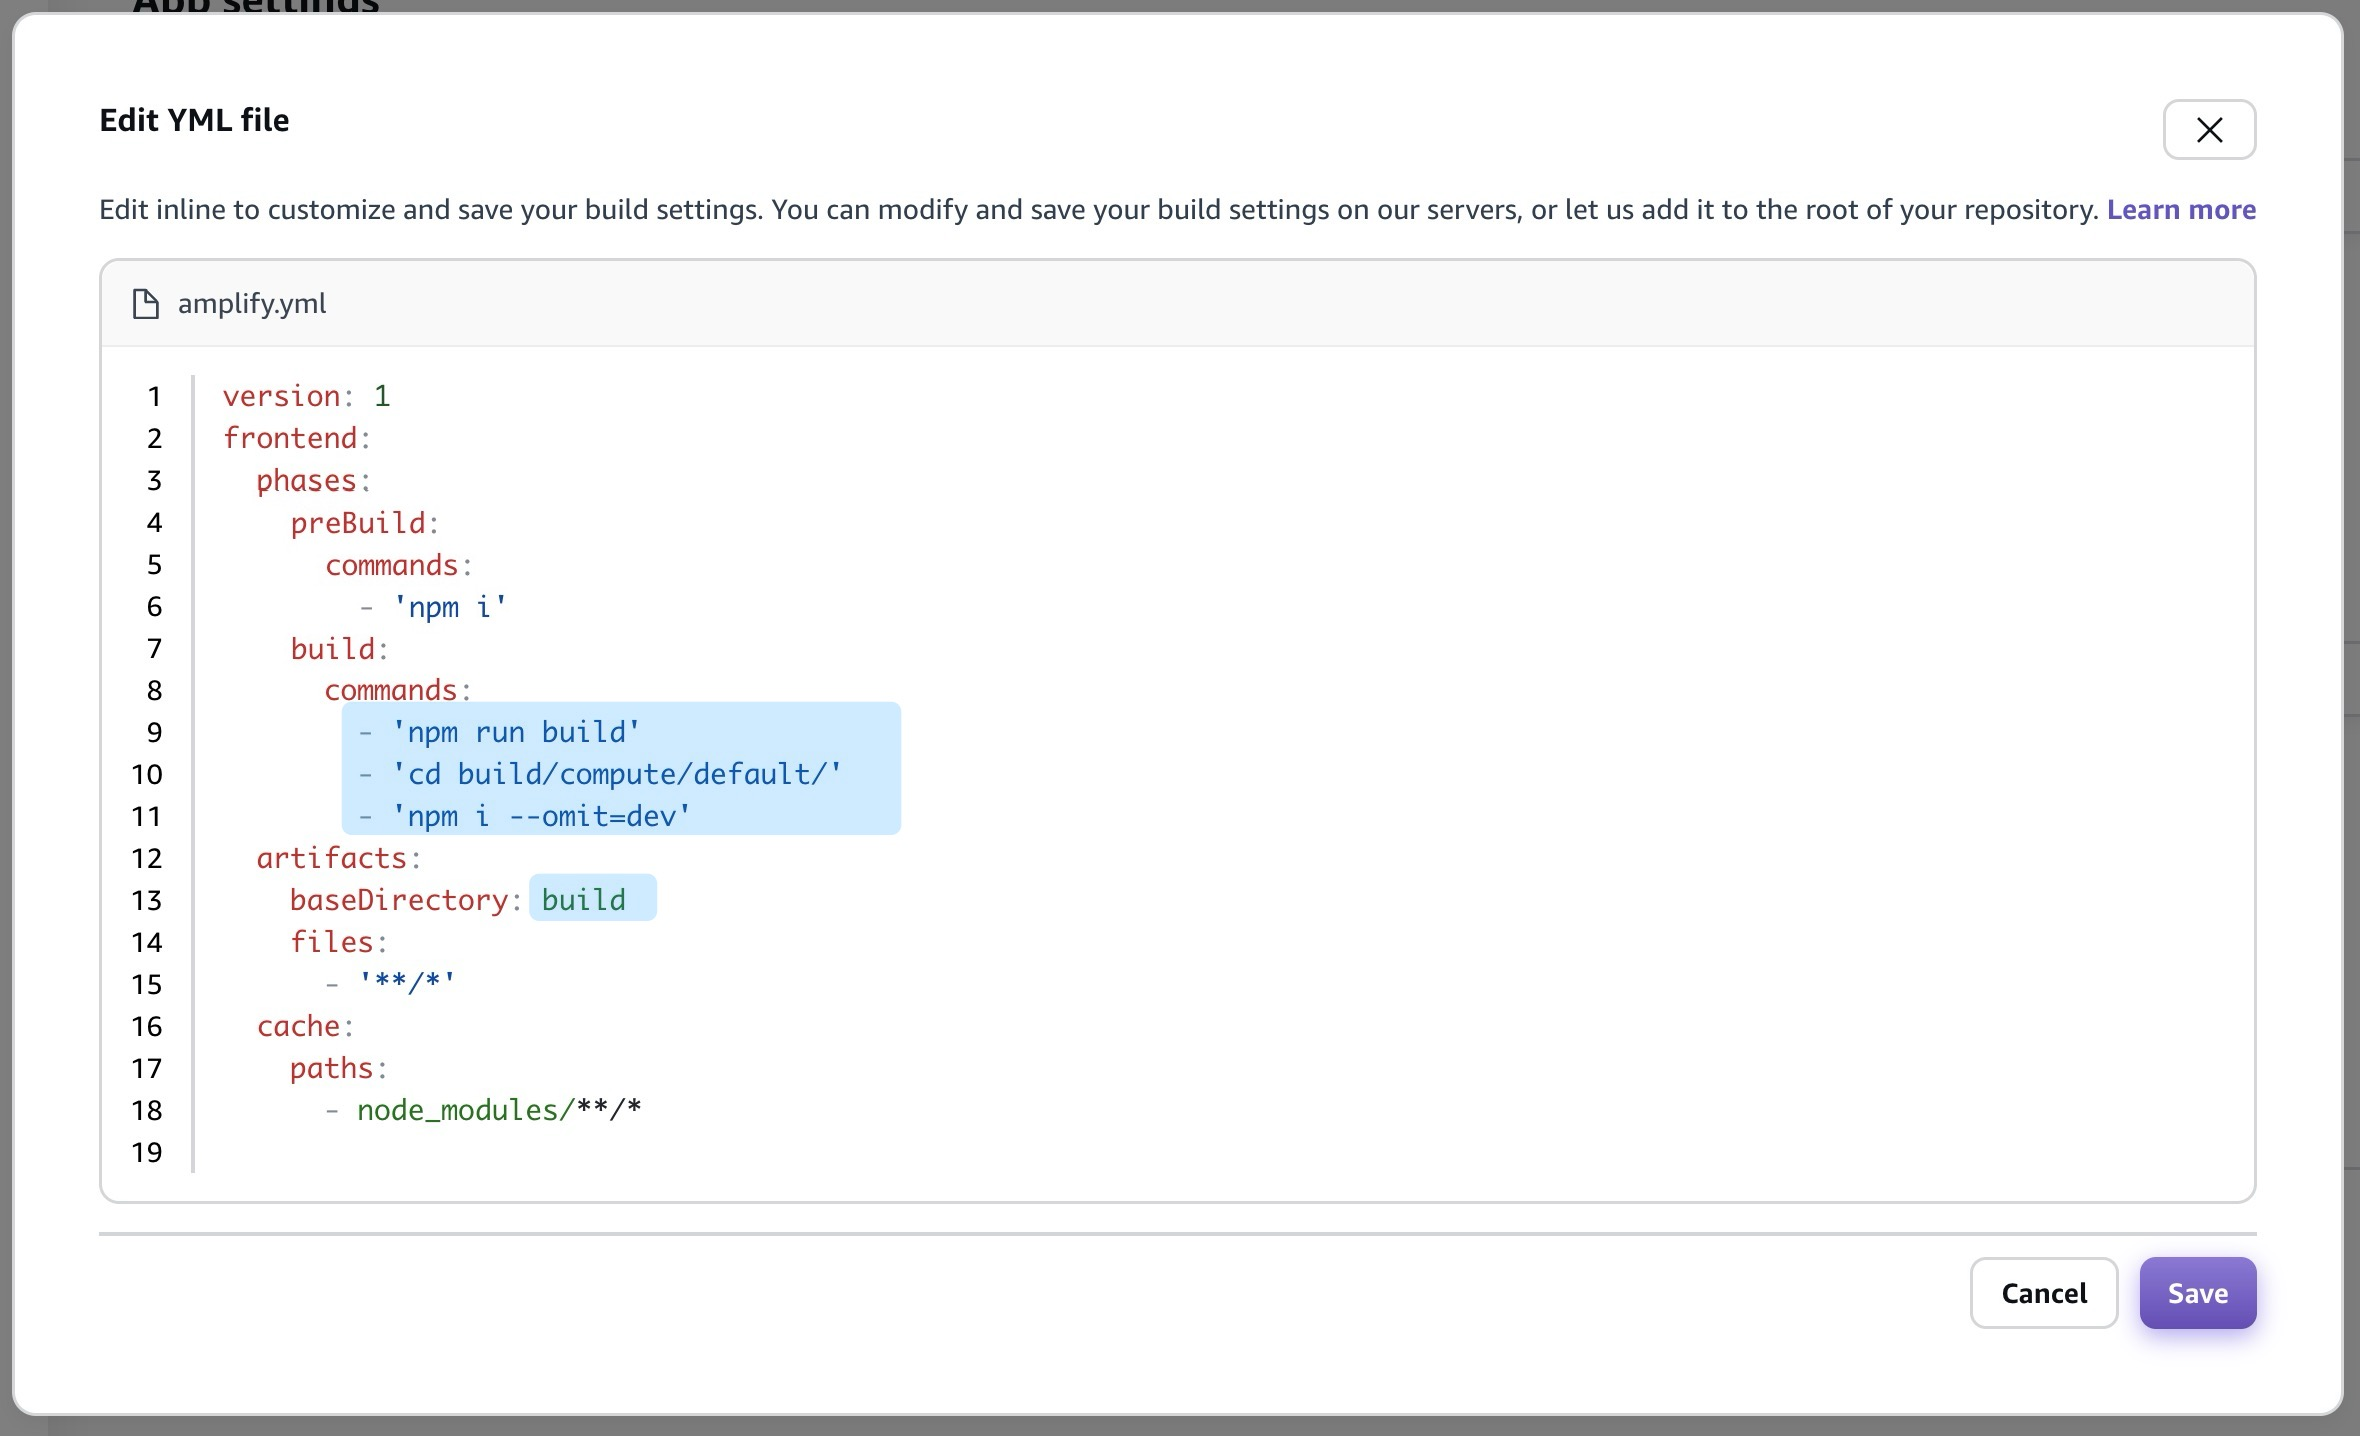
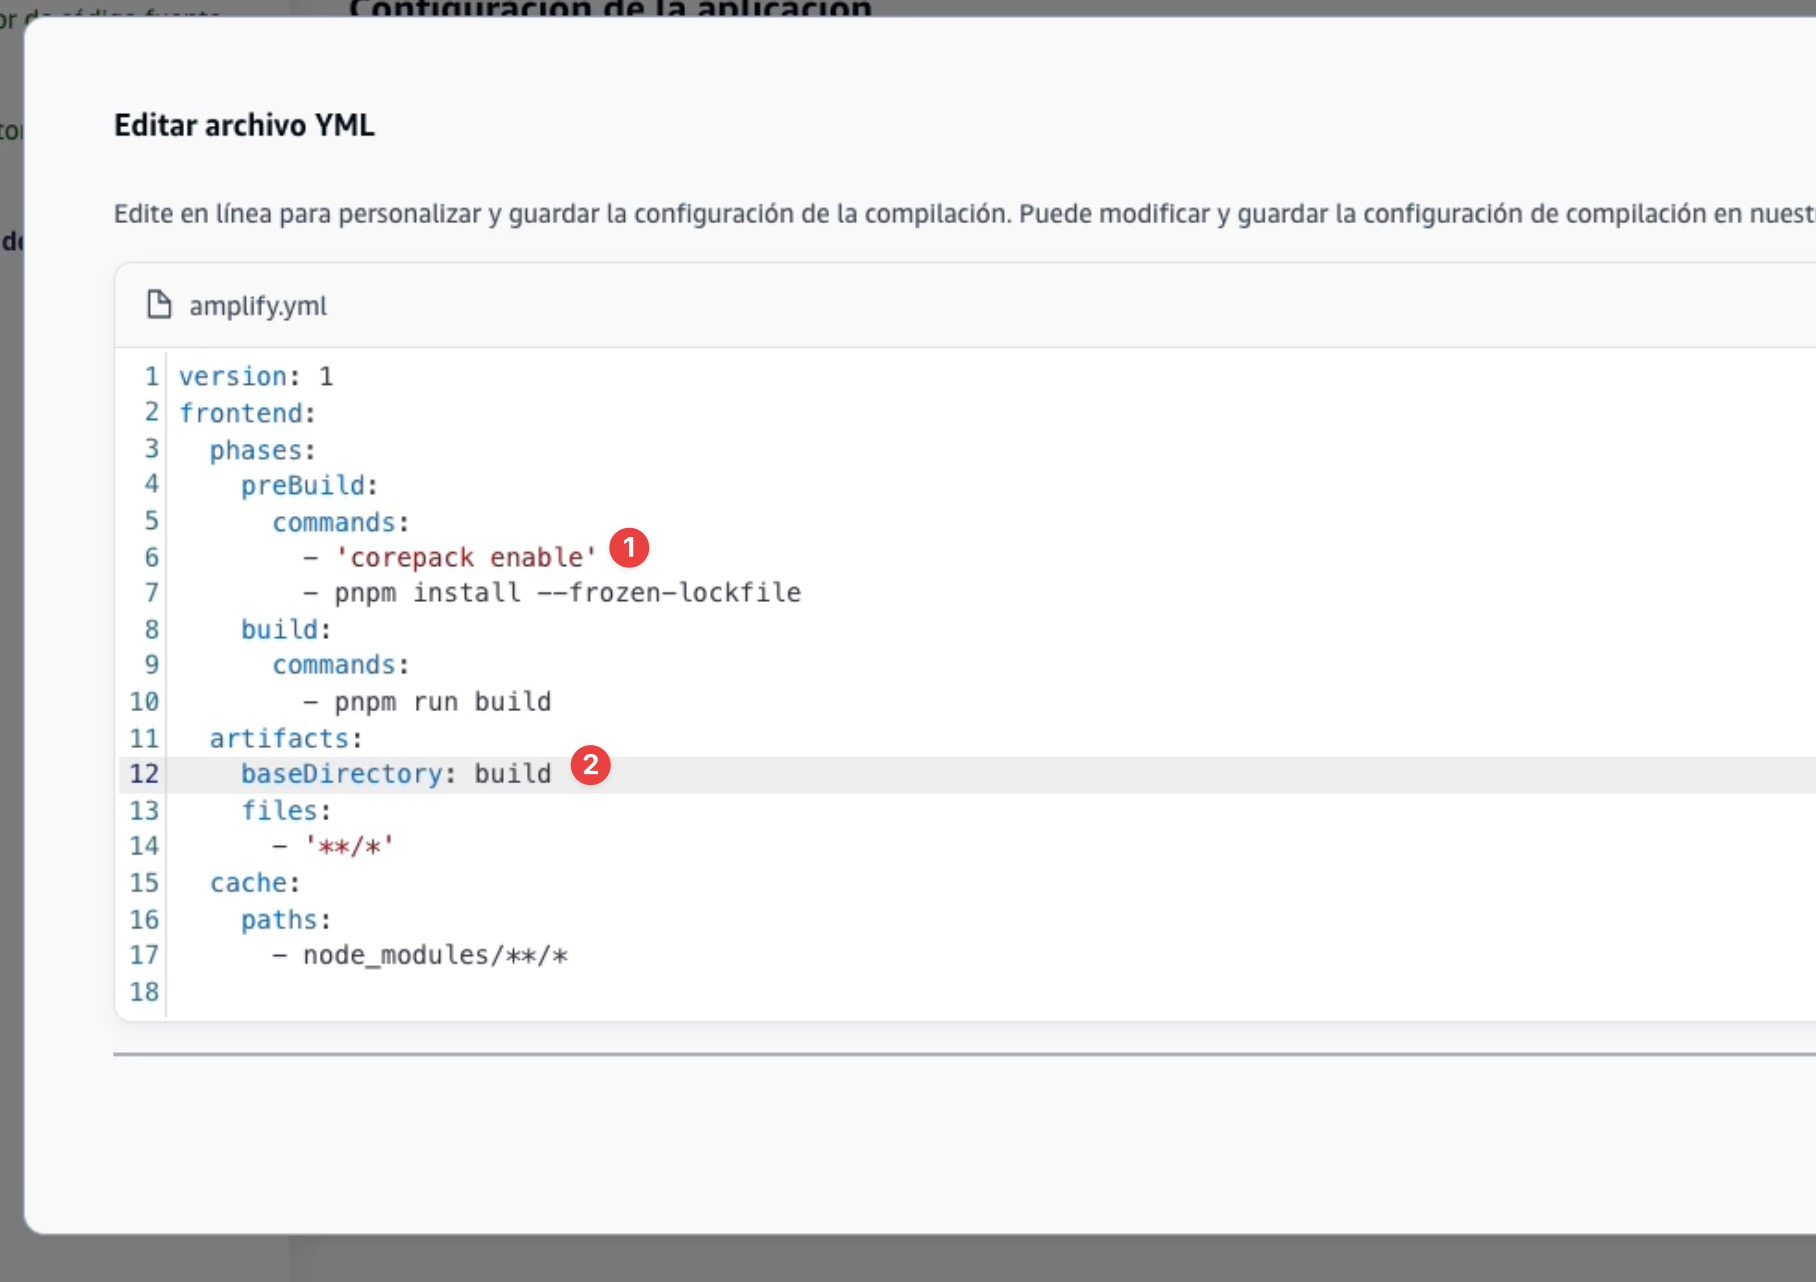
doc: update readme

Changed region(s): [[0.0, 0.0, 1.0, 0.9984]]

diff --git a/README.md b/README.md
@@ -10,7 +10,7 @@ Limitations:
 
 ## Video tutorial
 
-[![SvelteKit + Amplify CI/CD](./readme_assets/video.jpg)](https://youtu.be/YGgJgq2LLpE)
+[![SvelteKit + Amplify CI/CD](./readme_assets/Snapshot.JPG)](https://youtu.be/T5QQCIidG7M)
 
 ### Official documentation on AWS Amplify
 
@@ -45,6 +45,8 @@ import adapter from 'amplify-adapter';
 
 ![Edit Yml button](readme_assets/3-click-on-edit-yml.jpg)
 
+- Add preBuild command: `- 'corepack enable'`
+
 - Set Artifact base directory to `build` and add the following lines to `frontend -> build` phase:
 
 ```yml
@@ -53,10 +55,11 @@ frontend:
   phases:
     preBuild:
       commands:
-        - 'npm i'
+        - 'corepack enable'
+        - 'pnpm install --frozen-lockfile'
     build:
       commands:
-        - 'npm run build'
+        - 'pnpm run build'
   artifacts:
     baseDirectory: build
     files:
@@ -65,6 +68,8 @@ frontend:
     paths:
       - node_modules/**/*
 ```
+
+![Edit YML File](readme_assets/4-edit-yml-file.jpg)
 
 - Click `Next` to `Review` your app configuration and click `Save and Deploy`.
 
